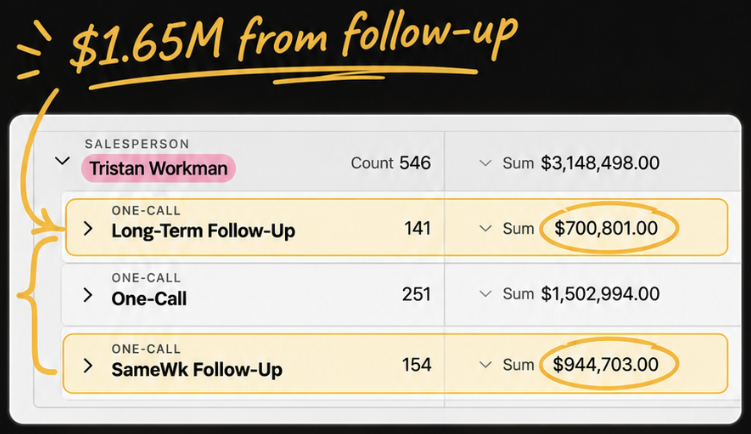
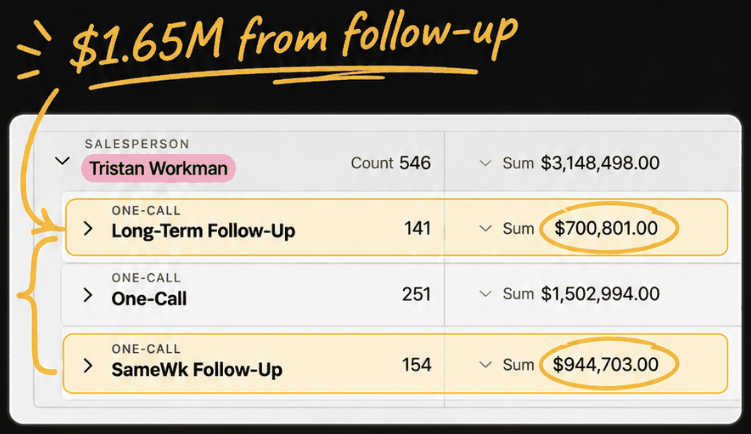
v4: 22 spots left, drop TBD early-bird bonus, compress images
Claude-Session: https://claude.ai/code/session_01B6SyheZNpz3uKChNs5tpkw

diff --git a/index.html b/index.html
@@ -507,7 +507,7 @@ summary::-webkit-details-marker{display:none}
 <p style="margin: 0; font-family: 'Archivo', sans-serif; font-weight: 900; font-size: clamp(22px, 2.2vw, 28px); line-height: 1.25; color: #121212"><span style="background: linear-gradient(transparent 58%, #FFB020 58%, #FFB020 92%, transparent 92%); padding: 0 3px; -webkit-box-decoration-break: clone; box-decoration-break: clone">To stop treating sales like a job and start treating it like a business.</span></p>
 </div>
 <figure style="margin: 0; position: sticky; top: 88px">
-<img src="assets/event-photo.png" alt="Tristan Workman at a live event" style="width: 100%; display: block; border-radius: 18px; box-shadow: 0 24px 50px rgba(0, 0, 0, 0.18)">
+<img src="assets/event-photo.jpg" alt="Tristan Workman at a live event" style="width: 100%; display: block; border-radius: 18px; box-shadow: 0 24px 50px rgba(0, 0, 0, 0.18)">
 </figure>
 </div>
 <div class="cta-mid" style="margin-top: clamp(32px, 4.5vw, 52px); display: flex; justify-content: center"><a href="https://commas.com/checkout/4jyNJgCdUy43nU" style="background: #FFB020; color: #121212; text-decoration: none; font-family: 'Archivo', sans-serif; font-weight: 900; font-size: 20px; padding: 20px 32px; border-radius: 12px; display: inline-flex; justify-content: center; align-items: center; gap: 10px; min-height: 60px; box-sizing: border-box; box-shadow: 0 10px 26px rgba(255,176,32,0.25)">Join Grok For Closers <span aria-hidden="true">&rarr;</span></a></div>
@@ -717,14 +717,6 @@ summary::-webkit-details-marker{display:none}
 <p style="margin: 0; font-size: clamp(17px, 1.5vw, 20px); line-height: 1.55; color: #3A3A36; text-wrap: pretty">Fast reps on the objections you hear most, so you&rsquo;re sharper on your very next call.</p>
 </div>
 </div>
-<div class="bn-row" style="background: #121212; color: #F4F4F1; border: 2px dashed #FFB020; border-radius: 22px; padding: clamp(20px, 3vw, 32px)">
-<div style="flex: none; width: clamp(84px, 9vw, 112px); aspect-ratio: 1; border-radius: 18px; background: #FFB020; display: flex; flex-direction: column; align-items: center; justify-content: center; gap: 6px"><svg width="34" height="34" viewBox="0 0 24 24" fill="none" stroke="#121212" stroke-width="1.9" stroke-linecap="round" stroke-linejoin="round" aria-hidden="true"><rect x="3" y="8" width="18" height="4" rx="1"/><path d="M5 12v9h14v-9M12 8v13"/><path d="M12 8S10.5 3 8 3a2.5 2.5 0 0 0 0 5h4Zm0 0s1.5-5 4-5a2.5 2.5 0 0 1 0 5h-4Z"/></svg><span style="font-family: 'JetBrains Mono', monospace; font-weight: 700; font-size: 11px; letter-spacing: 0.08em; color: #121212">BONUS 04</span></div>
-<div style="min-width: 0">
-<div style="font-family: 'JetBrains Mono', monospace; font-weight: 700; font-size: 12px; letter-spacing: 0.08em; color: #FFB020; margin-bottom: 6px">EARLY-BIRD ONLY &middot; EXPIRES SOON</div>
-<h3 style="margin: 0 0 8px; font-family: 'Archivo', sans-serif; font-weight: 900; font-size: clamp(22px, 2.4vw, 30px); line-height: 1.15; letter-spacing: -0.01em; text-wrap: balance">[EARLY-BIRD BONUS: TBD]</h3>
-<p style="margin: 0; font-size: clamp(17px, 1.5vw, 20px); line-height: 1.55; color: #C9C9C4; text-wrap: pretty">Tristan&rsquo;s expiring early-bird bonus goes here. Only for people who join before the early-bird deadline.</p>
-</div>
-</div>
 </div>
 </div>
 </section>
@@ -744,10 +736,10 @@ summary::-webkit-details-marker{display:none}
 <div class="pr-grid" style="margin-top: clamp(28px, 4vw, 44px); background: #121212; color: #F4F4F1; border-radius: 28px; padding: clamp(14px, 2vw, 22px)">
 <div style="padding: clamp(14px, 2.5vw, 28px)">
 <div style="font-family: 'JetBrains Mono', monospace; font-weight: 700; font-size: 12px; letter-spacing: 0.1em; color: #FFB020; margin-bottom: 10px">EVERYTHING YOU GET</div>
-<ul style="list-style: none; margin: 0; padding: 0; font-size: clamp(17px, 1.5vw, 19px); line-height: 1.45; border-bottom: 1px solid #2E2E2B"><li style="display: flex; gap: 12px; padding: 12px 0; border-top: 1px solid #2E2E2B"><svg width="20" height="20" viewBox="0 0 24 24" fill="none" stroke="#FFB020" stroke-width="2.6" stroke-linecap="round" stroke-linejoin="round" aria-hidden="true" style="flex: none; margin-top: 3px"><path d="M5 12.5 10 17 19 7.5"/></svg><span>6 live, 60-minute sessions with Tristan</span></li><li style="display: flex; gap: 12px; padding: 12px 0; border-top: 1px solid #2E2E2B"><svg width="20" height="20" viewBox="0 0 24 24" fill="none" stroke="#FFB020" stroke-width="2.6" stroke-linecap="round" stroke-linejoin="round" aria-hidden="true" style="flex: none; margin-top: 3px"><path d="M5 12.5 10 17 19 7.5"/></svg><span>Live office hours every Tuesday &amp; Thursday</span></li><li style="display: flex; gap: 12px; padding: 12px 0; border-top: 1px solid #2E2E2B"><svg width="20" height="20" viewBox="0 0 24 24" fill="none" stroke="#FFB020" stroke-width="2.6" stroke-linecap="round" stroke-linejoin="round" aria-hidden="true" style="flex: none; margin-top: 3px"><path d="M5 12.5 10 17 19 7.5"/></svg><span>The Closer Coach bot, yours to keep</span></li><li style="display: flex; gap: 12px; padding: 12px 0; border-top: 1px solid #2E2E2B"><svg width="20" height="20" viewBox="0 0 24 24" fill="none" stroke="#FFB020" stroke-width="2.6" stroke-linecap="round" stroke-linejoin="round" aria-hidden="true" style="flex: none; margin-top: 3px"><path d="M5 12.5 10 17 19 7.5"/></svg><span>Call Review bot + AI Sales Dojo</span></li><li style="display: flex; gap: 12px; padding: 12px 0; border-top: 1px solid #2E2E2B"><svg width="20" height="20" viewBox="0 0 24 24" fill="none" stroke="#FFB020" stroke-width="2.6" stroke-linecap="round" stroke-linejoin="round" aria-hidden="true" style="flex: none; margin-top: 3px"><path d="M5 12.5 10 17 19 7.5"/></svg><span>Session recordings + private WhatsApp group</span></li><li style="display: flex; gap: 12px; padding: 12px 0; border-top: 1px solid #2E2E2B"><svg width="20" height="20" viewBox="0 0 24 24" fill="none" stroke="#FFB020" stroke-width="2.6" stroke-linecap="round" stroke-linejoin="round" aria-hidden="true" style="flex: none; margin-top: 3px"><path d="M5 12.5 10 17 19 7.5"/></svg><span>4 bonuses, including the early-bird bonus</span></li></ul>
+<ul style="list-style: none; margin: 0; padding: 0; font-size: clamp(17px, 1.5vw, 19px); line-height: 1.45; border-bottom: 1px solid #2E2E2B"><li style="display: flex; gap: 12px; padding: 12px 0; border-top: 1px solid #2E2E2B"><svg width="20" height="20" viewBox="0 0 24 24" fill="none" stroke="#FFB020" stroke-width="2.6" stroke-linecap="round" stroke-linejoin="round" aria-hidden="true" style="flex: none; margin-top: 3px"><path d="M5 12.5 10 17 19 7.5"/></svg><span>6 live, 60-minute sessions with Tristan</span></li><li style="display: flex; gap: 12px; padding: 12px 0; border-top: 1px solid #2E2E2B"><svg width="20" height="20" viewBox="0 0 24 24" fill="none" stroke="#FFB020" stroke-width="2.6" stroke-linecap="round" stroke-linejoin="round" aria-hidden="true" style="flex: none; margin-top: 3px"><path d="M5 12.5 10 17 19 7.5"/></svg><span>Live office hours every Tuesday &amp; Thursday</span></li><li style="display: flex; gap: 12px; padding: 12px 0; border-top: 1px solid #2E2E2B"><svg width="20" height="20" viewBox="0 0 24 24" fill="none" stroke="#FFB020" stroke-width="2.6" stroke-linecap="round" stroke-linejoin="round" aria-hidden="true" style="flex: none; margin-top: 3px"><path d="M5 12.5 10 17 19 7.5"/></svg><span>The Closer Coach bot, yours to keep</span></li><li style="display: flex; gap: 12px; padding: 12px 0; border-top: 1px solid #2E2E2B"><svg width="20" height="20" viewBox="0 0 24 24" fill="none" stroke="#FFB020" stroke-width="2.6" stroke-linecap="round" stroke-linejoin="round" aria-hidden="true" style="flex: none; margin-top: 3px"><path d="M5 12.5 10 17 19 7.5"/></svg><span>Call Review bot + AI Sales Dojo</span></li><li style="display: flex; gap: 12px; padding: 12px 0; border-top: 1px solid #2E2E2B"><svg width="20" height="20" viewBox="0 0 24 24" fill="none" stroke="#FFB020" stroke-width="2.6" stroke-linecap="round" stroke-linejoin="round" aria-hidden="true" style="flex: none; margin-top: 3px"><path d="M5 12.5 10 17 19 7.5"/></svg><span>Session recordings + private WhatsApp group</span></li><li style="display: flex; gap: 12px; padding: 12px 0; border-top: 1px solid #2E2E2B"><svg width="20" height="20" viewBox="0 0 24 24" fill="none" stroke="#FFB020" stroke-width="2.6" stroke-linecap="round" stroke-linejoin="round" aria-hidden="true" style="flex: none; margin-top: 3px"><path d="M5 12.5 10 17 19 7.5"/></svg><span>3 bonuses</span></li></ul>
 </div>
 <div style="background: #F4F4F1; color: #121212; border-radius: 20px; padding: clamp(22px, 3.5vw, 36px); display: flex; flex-direction: column; gap: 16px">
-<div style="align-self: flex-start; background: #FFB020; font-family: 'JetBrains Mono', monospace; font-weight: 700; font-size: 12px; letter-spacing: 0.06em; padding: 5px 10px; border-radius: 6px">EARLY BIRD &middot; [XX] SPOTS LEFT</div>
+<div style="align-self: flex-start; background: #FFB020; font-family: 'JetBrains Mono', monospace; font-weight: 700; font-size: 12px; letter-spacing: 0.06em; padding: 5px 10px; border-radius: 6px">EARLY BIRD &middot; 22 SPOTS LEFT</div>
 <div style="display: flex; flex-wrap: wrap; align-items: baseline; gap: 4px 14px"><span style="font-family: 'Archivo', sans-serif; font-weight: 900; font-size: clamp(64px, 12vw, 96px); line-height: 1; letter-spacing: -0.03em">$900</span><span style="font-size: 24px; color: #5A5A55; text-decoration: line-through">$1,800</span></div>
 <div style="font-size: 15px; color: #3A3A36">With code <strong>EARLYBIRD</strong> at checkout &middot; Starts Wed, Dec 2</div>
 <div style="display: grid; grid-template-columns: repeat(4, minmax(0, 1fr)); gap: 8px; text-align: center"><div style="background: #FFFFFF; border: 1px solid #E2E2DC; border-radius: 10px; padding: 10px 4px"><div style="font-family: 'JetBrains Mono', monospace; font-weight: 700; font-size: 24px"><span data-cd="d">00</span></div><div style="font-size: 11px; color: #5A5A55; letter-spacing: 0.06em">DAYS</div></div><div style="background: #FFFFFF; border: 1px solid #E2E2DC; border-radius: 10px; padding: 10px 4px"><div style="font-family: 'JetBrains Mono', monospace; font-weight: 700; font-size: 24px"><span data-cd="h">00</span></div><div style="font-size: 11px; color: #5A5A55; letter-spacing: 0.06em">HRS</div></div><div style="background: #FFFFFF; border: 1px solid #E2E2DC; border-radius: 10px; padding: 10px 4px"><div style="font-family: 'JetBrains Mono', monospace; font-weight: 700; font-size: 24px"><span data-cd="m">00</span></div><div style="font-size: 11px; color: #5A5A55; letter-spacing: 0.06em">MIN</div></div><div style="background: #FFFFFF; border: 1px solid #E2E2DC; border-radius: 10px; padding: 10px 4px"><div style="font-family: 'JetBrains Mono', monospace; font-weight: 700; font-size: 24px"><span data-cd="s">00</span></div><div style="font-size: 11px; color: #5A5A55; letter-spacing: 0.06em">SEC</div></div></div>
